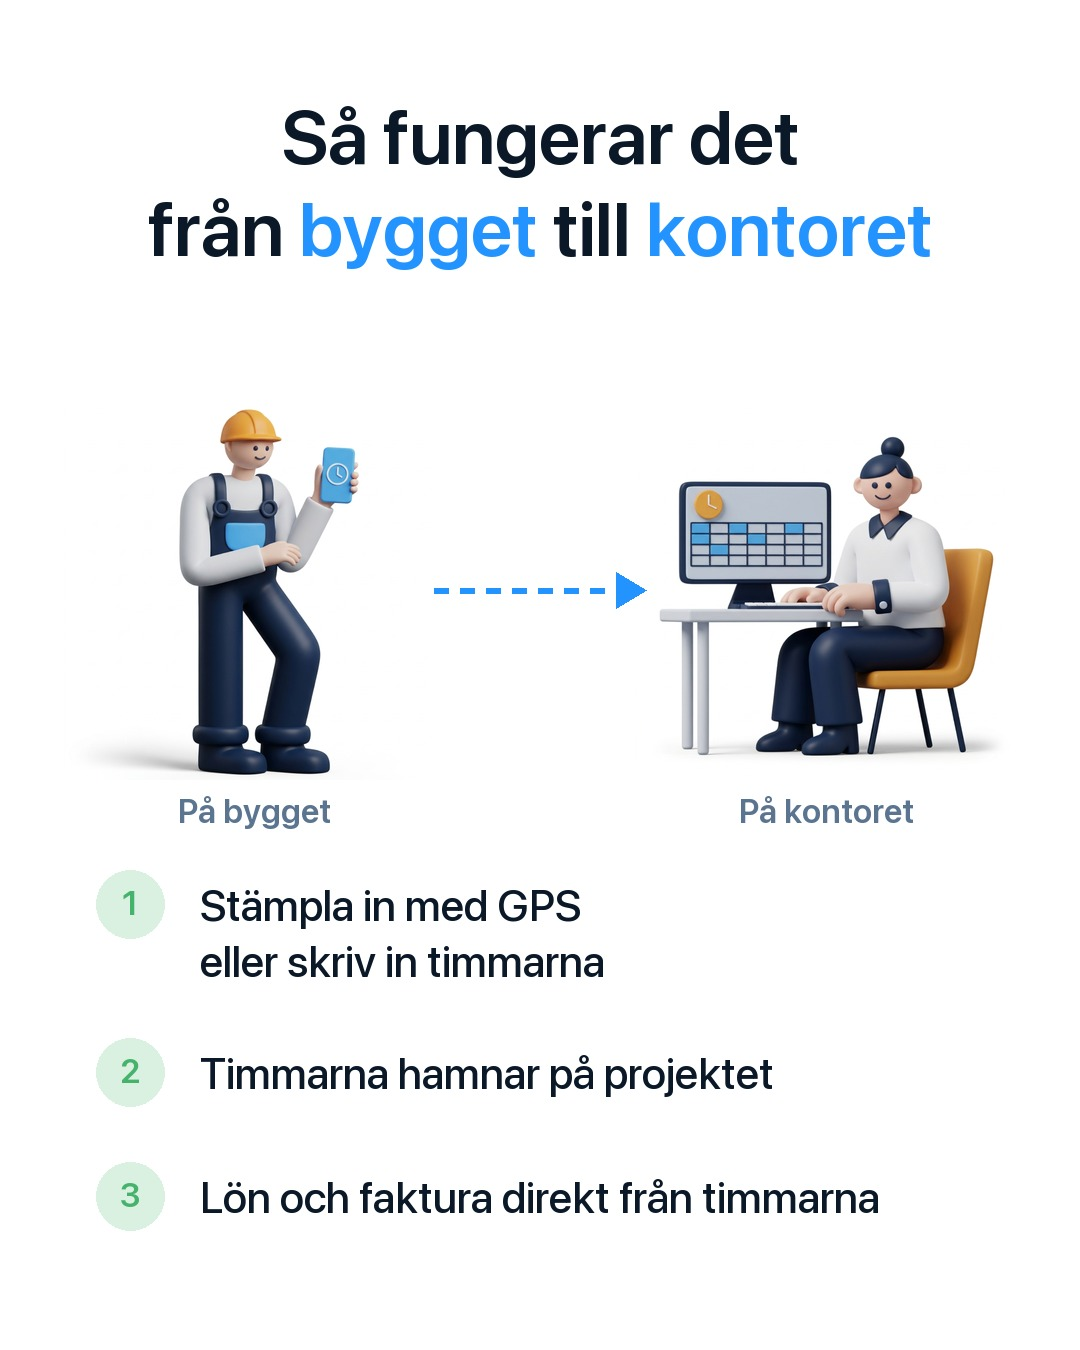
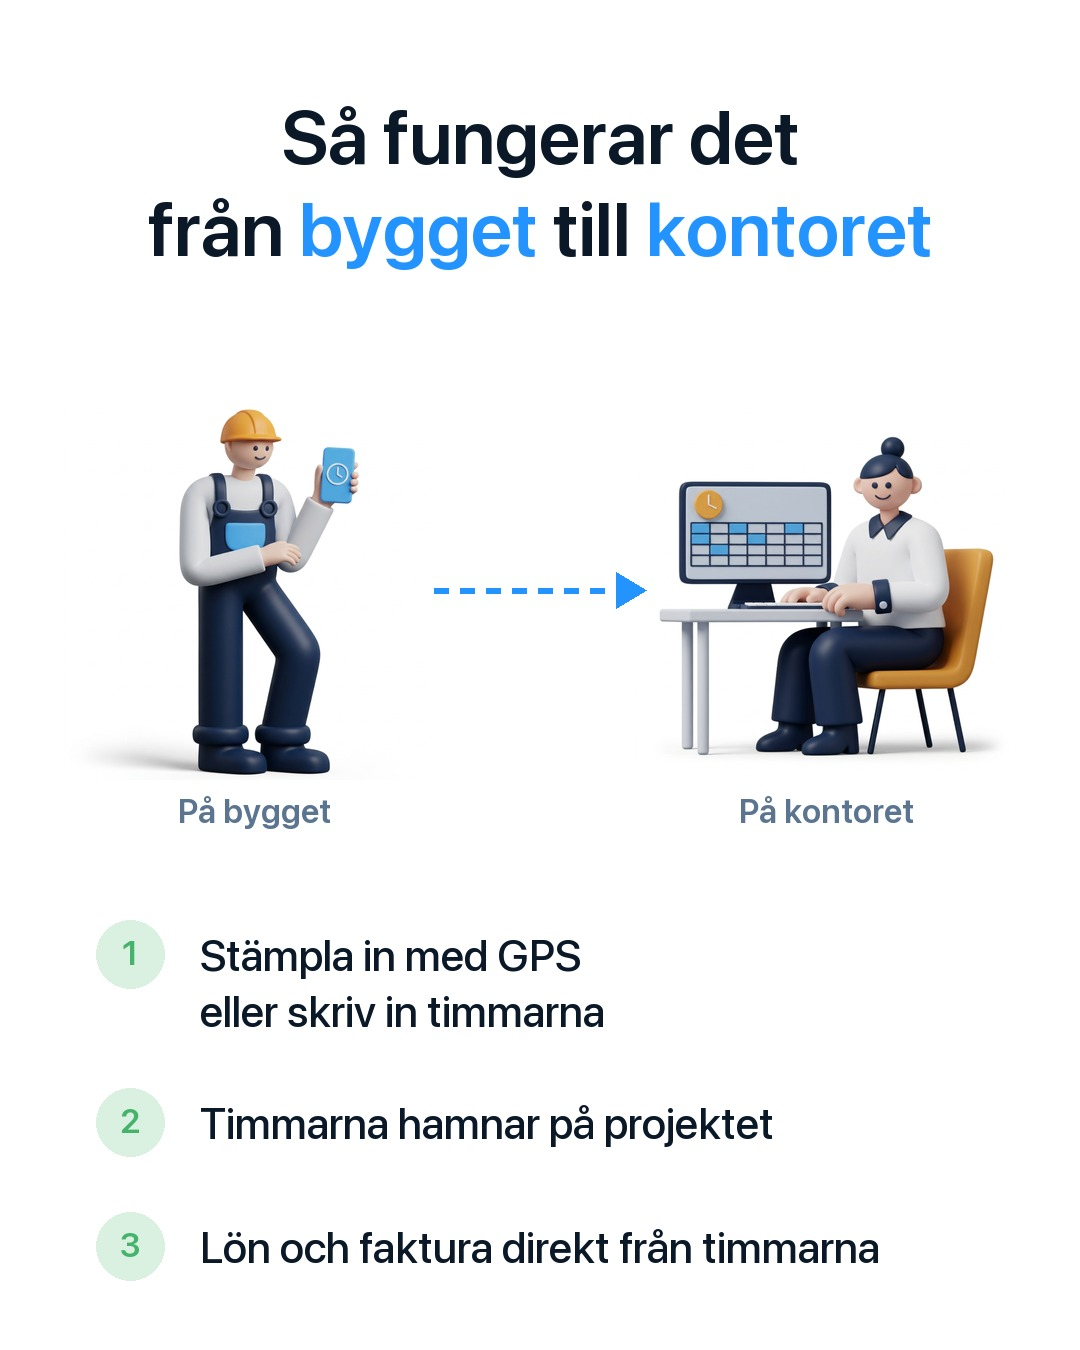
feat(smm): more air between pictures and text on slides 2-3
Claude-Session: https://claude.ai/code/session_015ffAXEftTHPL4eNP1AivUn

Changed region(s): [[0.1833, 0.6533, 0.825, 0.9333], [0.0917, 0.6222, 0.1528, 0.9644]]

diff --git a/design-assets/social/posts/make_3d.py b/design-assets/social/posts/make_3d.py
@@ -195,7 +195,7 @@ def slide_steps(items, pid, lines, size):
         d.text((x + (side - d.textlength(label, font=fl)) / 2, CONTENT + side + 10), label, font=fl, fill=GREY)
     arrow(d, 64 + side - 10, W - 64 - side + 10, CONTENT + side // 2)
     ft, fn = font(44, "Medium"), font(34, "Bold")
-    y = CONTENT + side + 90
+    y = CONTENT + side + 140  # more air under the pictures, text sits low like the cover footer
     for i, text in enumerate(items):
         d.ellipse((96, y, 164, y + 68), fill=(218, 240, 225))
         n = str(i + 1)
@@ -275,7 +275,7 @@ def slide_feature(spec, lines, size):
     headline(d, lines, size)
     y = CONTENT
     f.alpha_composite(im, (20, y))
-    checks(d, y + im.height + 70)
+    checks(d, y + im.height + 120)
     return f, d
 
 

diff --git a/design-assets/social/DESIGN-SYSTEM-SMM.md b/design-assets/social/DESIGN-SYSTEM-SMM.md
@@ -76,7 +76,7 @@
 
 **S26 · 2026-10-31 · Посты о функциях: под 3D — «как это работает», без цены.** Под 3D-картинкой 3 коротких шага (зелёные шарики 1-2-3, как в презентациях функций): что делает человек → что делает система → что получаешь. Человек, который видит функцию впервые, понимает логику. Цены на картинке нет, в тексте поста тоже нет (только «14 dagar gratis, ingen bindningstid»). Шаг — 1–2 строки, перенос сбалансированный, без одиночного слова. Отменяет S17/S18 для постов о функциях; цена остаётся на обложках и закрепе. Код: `posts/make_3d.py` (`steps`, `wrap`). Почему: владелец: «не надо везде цены ставить, расскажи подробнее про функцию, какая логика».
 
-**S27 · 2026-10-31 · Пост о функции = карусель из 3 картинок.** 1) 3D + заголовок-выгода (подпись byggexp.se + значки сторов — только здесь); 2) «Så fungerar det» — сверху связь «På bygget → På kontoret»: 3D рабочего с телефоном, синяя пунктирная стрелка, 3D женщины за компьютером (видно: человек ввёл — в компьютере уже есть); ниже 3 шага, длинный шаг переносится, не вылезает за край (`FLOW` в make_3d.py); 3) «Så ser det ut i appen» — настоящий экран в настоящем iPhone из презентаций (`byggexp-admin/docs/presentations/design-system/assets/screens/foto-phone.png`, титановая рамка, кнопки, Dynamic Island), не нарисованная рамка. 3-я картинка (если у функции есть картинка на сайте) — «I mobilen och i datorn»: ноутбук с сайта (`public/landing/features/<n>.webp`), а старый телефон на ней закрыт нашим настоящим iPhone с текущим экраном (часы — неделя, вкладка Manuell); заголовок на той же высоте, что на всех слайдах (y 90, владелец: «заголовки не на ровных местах»), под картинкой — 3 зелёные галочки из шапки сайта: «14 dagar gratis · Ingen bindningstid · Gratis flytt av data». Отзывов нет — не выдумываем. Отдельный слайд с телефонами тогда не нужен (владелец: «либо третий, либо четвёртый»). Серия идёт по блоку «Så fungerar det» на главной (11 карточек, их названия и шаги); сначала утверждаем один пост, остальные — строго по нему. Заголовки на всех слайдах выше (y 90) и одинаковые: 2 строки тёмно-синим #0A1828, голубым #2394FF подсвечены только слова по смыслу (в коде `*слово*`), не целая строка; один размер на всю серию. Отступ от заголовка до картинки на всех слайдах как на 1-м (~130 px, `CONTENT = 400`). Код: `headline()`, `HEADS`. Фон всех 3 картинок белый, без светло-голубого. Скриншот — свежий из симулятора, во весь экран, без пустого низа, и показывает все поля, которые человек заполняет (часы, övertid, OB, restid, bil, traktamente, фото, kvitton), а не обрезанный кусок. Экран всегда с верха: вкладки и неделя видны, низ может обрезаться (владелец: «пускай верхняя часть видна»). Если у функции два способа — оба: тидрапорт = «GPS eller manuellt» в заголовке и шагах, на 3-й картинке два телефона с подписями «GPS» / «Manuellt». Код: `posts/make_3d.py` (`carousel`, `SHOTS`, скрины в `~/Desktop/SMM/app-shots/`). Почему: владелец: «одним постом 2–3 картинки», «заголовок выше», «телефон реальный», «подпись только на 1-й», «у нас не только GPS — мануальный ввод обязательно», «больше полей, где человек часы вводит».
+**S27 · 2026-10-31 · Пост о функции = карусель из 3 картинок.** 1) 3D + заголовок-выгода (подпись byggexp.se + значки сторов — только здесь); 2) «Så fungerar det» — сверху связь «På bygget → På kontoret»: 3D рабочего с телефоном, синяя пунктирная стрелка, 3D женщины за компьютером (видно: человек ввёл — в компьютере уже есть); ниже 3 шага, длинный шаг переносится, не вылезает за край (`FLOW` в make_3d.py); 3) «Så ser det ut i appen» — настоящий экран в настоящем iPhone из презентаций (`byggexp-admin/docs/presentations/design-system/assets/screens/foto-phone.png`, титановая рамка, кнопки, Dynamic Island), не нарисованная рамка. 3-я картинка (если у функции есть картинка на сайте) — «I mobilen och i datorn»: ноутбук с сайта (`public/landing/features/<n>.webp`), а старый телефон на ней закрыт нашим настоящим iPhone с текущим экраном (часы — неделя, вкладка Manuell); заголовок на той же высоте, что на всех слайдах (y 90, владелец: «заголовки не на ровных местах»), под картинкой — 3 зелёные галочки из шапки сайта: «14 dagar gratis · Ingen bindningstid · Gratis flytt av data». Отзывов нет — не выдумываем. Отдельный слайд с телефонами тогда не нужен (владелец: «либо третий, либо четвёртый»). Серия идёт по блоку «Så fungerar det» на главной (11 карточек, их названия и шаги); сначала утверждаем один пост, остальные — строго по нему. Заголовки на всех слайдах выше (y 90) и одинаковые: 2 строки тёмно-синим #0A1828, голубым #2394FF подсвечены только слова по смыслу (в коде `*слово*`), не целая строка; один размер на всю серию. Отступ от заголовка до картинки на всех слайдах как на 1-м (~130 px, `CONTENT = 400`). Текст под иллюстрацией на 2-м и 3-м слайде — с большим отступом (~140 px), низ слайда заканчивается на той же высоте, что футер 1-го (~1290 px), без пустого низа. Код: `headline()`, `HEADS`. Фон всех 3 картинок белый, без светло-голубого. Скриншот — свежий из симулятора, во весь экран, без пустого низа, и показывает все поля, которые человек заполняет (часы, övertid, OB, restid, bil, traktamente, фото, kvitton), а не обрезанный кусок. Экран всегда с верха: вкладки и неделя видны, низ может обрезаться (владелец: «пускай верхняя часть видна»). Если у функции два способа — оба: тидрапорт = «GPS eller manuellt» в заголовке и шагах, на 3-й картинке два телефона с подписями «GPS» / «Manuellt». Код: `posts/make_3d.py` (`carousel`, `SHOTS`, скрины в `~/Desktop/SMM/app-shots/`). Почему: владелец: «одним постом 2–3 картинки», «заголовок выше», «телефон реальный», «подпись только на 1-й», «у нас не только GPS — мануальный ввод обязательно», «больше полей, где человек часы вводит».
 
 **S28 · 2026-10-31 · Шрифт картинок = то, что реально видно на сайте: SF Pro.** Сайт в CSS пишет `"DM Sans", -apple-system…`, но DM Sans нигде не подгружает (нет @font-face / Google Fonts), поэтому посетитель видит системный SF Pro. В картинках — `/System/Library/Fonts/SFNS.ttf` (вариативный): заголовки 600, шаги 500, текст 400; крупный текст — оптический размер Display. DM Sans в картинках не использовать. Сайт не трогаем (сделан по Figma, эталон): материалы подстраиваются под сайт, а не наоборот. Код: `font()` в `posts/make_3d.py`. Почему: владелец: «шрифты точно с сайта?» — были не с сайта.
 
